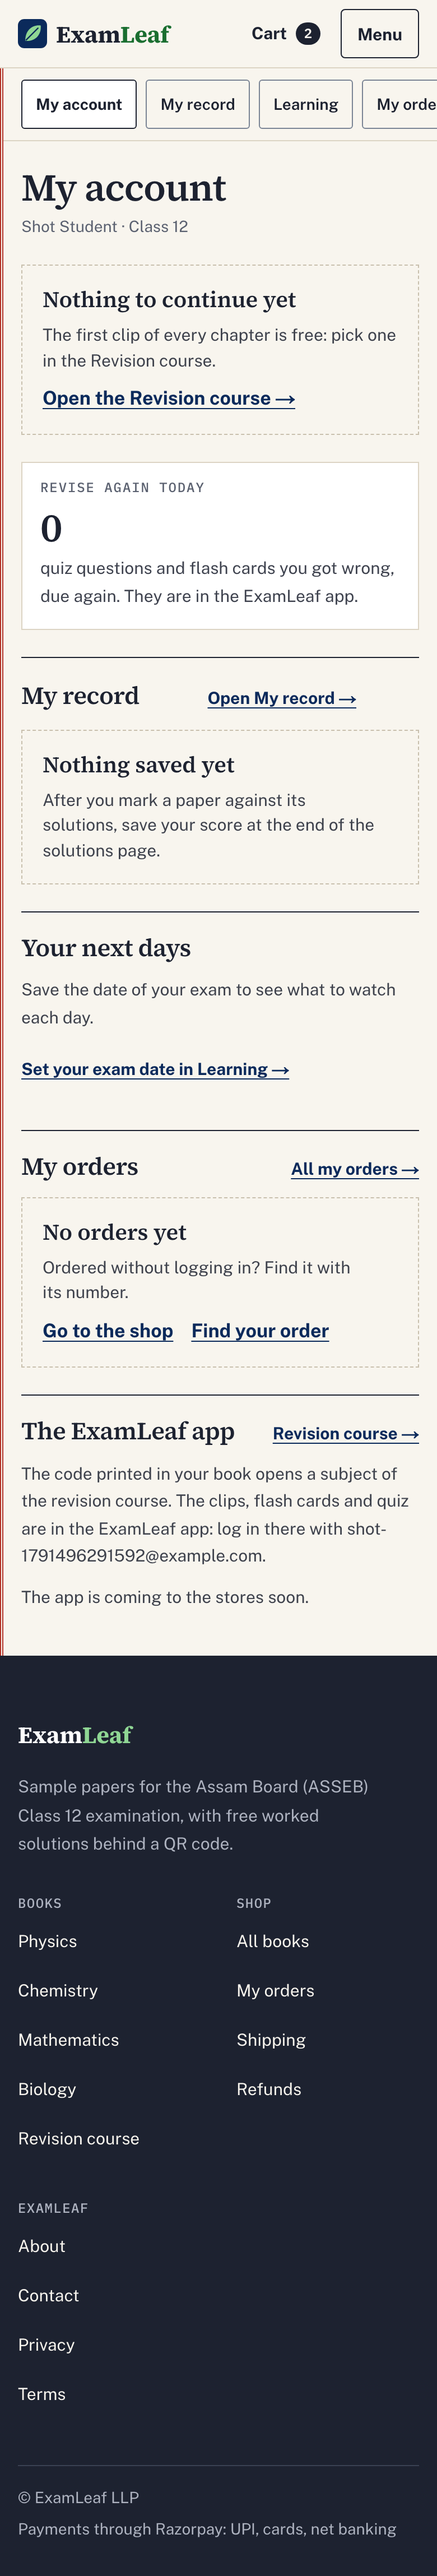
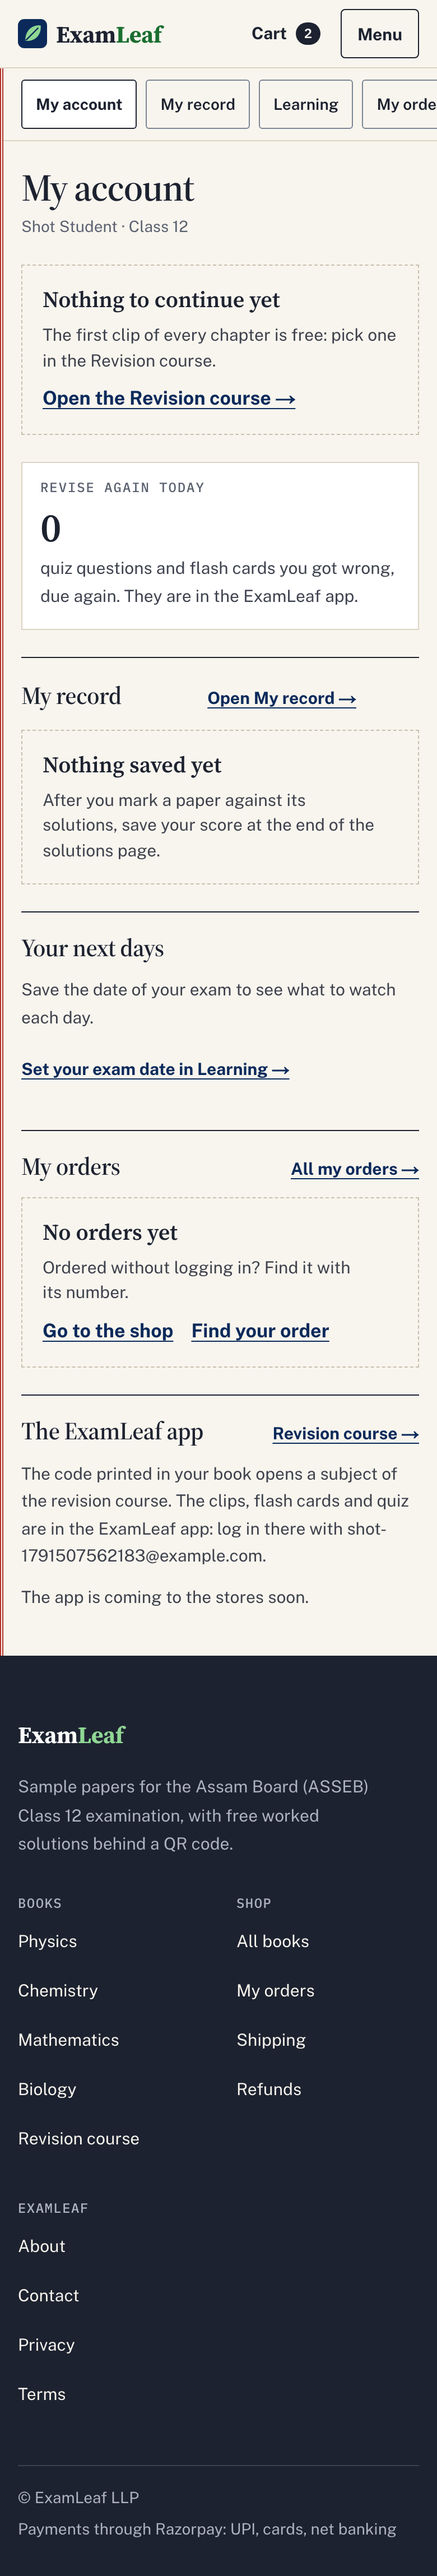
Report and the after set remeasured on the vendored fonts: home 98 with LCP 2.4 s, the open paper 97 with 2.5 s, shop 91, account 93; the suite 41 passed

diff --git a/docs/design/answer-script-implementation.md b/docs/design/answer-script-implementation.md
@@ -39,14 +39,14 @@ or entitlement changed.
 
 | Route                                                                                      | Artboards                                                 | What the page does now                                                                                                                                                                                                                                                                                                                                                                                                                                                                                           |
 | ------------------------------------------------------------------------------------------ | --------------------------------------------------------- | ---------------------------------------------------------------------------------------------------------------------------------------------------------------------------------------------------------------------------------------------------------------------------------------------------------------------------------------------------------------------------------------------------------------------------------------------------------------------------------------------------------------- |
-| `/`                                                                                        | A Home, Phone home                                        | Q.1 to Q.5 on Sheets: the promise with the red italic, the solution sheet as the picture (the circled total), the books as a ruled table (SUBJECT · PAPERS · FULL MARKS · TIME), how it works, the two offers from the shop (BEST VALUE stamp), the questions, the ink band. All figures from the API.                                                                                                                                                                                                           |
+| `/`                                                                                        | 96 / 2.8 s / 173.2 KB                                     | 98 / 100 / 100 / 100                                                                                                                                                                                                                                                                                                                                                                                                                                                                                             | 1.1 s | 2.4 s | 30 ms | 0     | 160.7 KB | 210.5 KB | 519 KB |
 | `/books/<slug>/`                                                                           | Book, Phone book                                          | The hero on a Sheet (margin: the subject code; marks: [papers] [marks] [time]), the buy buttons from the shop, the log-in prompt, one Sheet per tier with the papers as cells and the open sample marked in red ink.                                                                                                                                                                                                                                                                                             |
 | `/s/<code>/`                                                                               | A Solutions, Solutions logged out, Phone solutions        | The masthead (mono eyebrow, serif title, ruled facts, the stamp), the paper on a Sheet with question numbers in the margin and allotted marks in the marks column, solutions on the red margin line with ticked marking steps and a circled total, a rail from 1100 px (On this paper, Paper n of m, Next), a sticky chip row below it, the record card at the end. The wall: the two-panel card with `next` kept on both links and the open sample offered. Print: one page per question group, no site chrome. |
 | `/c/<token>/`                                                                              | Parent link, Expired links                                | The facts as a ruled list beside the answer card; the expired state names the student and links Contact (G5); 429 says when to try again.                                                                                                                                                                                                                                                                                                                                                                        |
 | `/about/`, `/privacy/`, `/terms/`, `/refunds/`, `/shipping/`                               | About, Legal                                              | `§` in the margin, the CMS HTML in the serif prose, "On this page" from the page's h2s (a rail from 1100 px, a disclosure below); `/shipping/` adds the rates from `GET shipping/` in a table that scrolls in its own box.                                                                                                                                                                                                                                                                                       |
 | `/contact/`                                                                                | Contact                                                   | The contacts from config, the form card only when a support address is set, Turnstile only with a key, 429 and 503 in words.                                                                                                                                                                                                                                                                                                                                                                                     |
 | 404, error, offline                                                                        | 404, Unavailable and offline                              | "This page isn't in the book" with the subjects as rows and the Find-your-order hint for `/orders/t/` links (G19); the unavailable page stays a real 500; offline stays self-contained.                                                                                                                                                                                                                                                                                                                          |
-| `/shop/` (+ category, collection)                                                          | Shop, Phone shop, Shop closed                             | `₹` in the margin, subject tabs and kind chips as server-answered links (G13), the no-cover card in the subject colour, OUT OF STOCK on the cover, honest no-match and shop-closed states.                                                                                                                                                                                                                                                                                                                       |
+| `/shop/`                                                                                   | 95 / 2.8 s / 179.9 KB                                     | 91 / 100 / 100 / 100                                                                                                                                                                                                                                                                                                                                                                                                                                                                                             | 1.5 s | 3.5 s | 10 ms | 0.005 | 160.7 KB | 153.9 KB | 572 KB |
 | `/shop/<slug>/`                                                                            | Product, Phone product                                    | Options as radio cards with the BEST VALUE stamp, the joined copies stepper, Add to cart · ₹price and Buy now (sent once), the three facts (stock, delivery, cancel), What's inside, Try before you buy, details, reviews.                                                                                                                                                                                                                                                                                       |
 | `/shop/school-orders/`                                                                     | School orders                                             | Two columns; the quote form with a copies grid by subject and kind.                                                                                                                                                                                                                                                                                                                                                                                                                                              |
 | `/cart/`                                                                                   | Cart, Cart coupon, Cancel dialog                          | Ruled lines, the paper-2 summary, the coupon applied and removed through `cart/coupon/` with the API's discount and its refusal on the field, Remove in the paper dialog, the empty state.                                                                                                                                                                                                                                                                                                                       |
@@ -135,20 +135,21 @@ desktop preset once for Home. JavaScript and fonts are the transfer (gzip) sizes
 |---|---|---|---|---|---|---|---|---|---|---|
 | `/` | 96 / 2.8 s / 173.2 KB | 91 / 100 / 100 / 100 | 1.5 s | 3.4 s | 20 ms | 0 | 160.7 KB | 208.4 KB | 518 KB |
 | `/shop/` | 95 / 2.8 s / 179.9 KB | 85 / 100 / 100 / 100 | 1.8 s | 4.2 s | 20 ms | 0 | 160.7 KB | 198.1 KB | 617 KB |
-| `/s/PHY-E01/` (open sample; measured at ac79966, the page's files are unchanged since) | 93 / 3.1 s / 177.8 KB | 87 / 100 / 100 / 100 | 1.8 s | 3.9 s | 30 ms | 0.002 | 171.7 KB | 148.5 KB | 443 KB |
-| `/account/` (signed in) | 82–84 with the CLS defect / 2.7 s / 204.5 KB | 93 / 100 / 100 / 66 (noindex, on purpose) | 1.1 s | 3.3 s | 20 ms | 0 | 182.7 KB | 138.1 KB | 374 KB |
-| `/` desktop | 100 / 0.6 s | 100 / 100 / 100 / 100 | | 0.7 s | 0 ms | 0 | | | |
+| `/s/PHY-E01/` (open sample) | 93 / 3.1 s / 177.8 KB | 97 / 100 / 100 / 100 | 1.6 s | 2.5 s | 40 ms | 0.006 | 171.7 KB | 210.5 KB | 504 KB |
+| `/account/` (signed in) | 82–84 with the CLS defect / 2.7 s / 204.5 KB | 93 / 100 / 100 / 66 (noindex, on purpose) | 1.6 s | 3.2 s | 20 ms | 0 | 182.7 KB | 153.9 KB | 391 KB |
+| `/` desktop | 100 / 0.6 s | 99 / 100 / 100 / 100 | | 0.9 s | 0 ms | 0.004 | | | |
 
 Against the budgets of `audit-nextjs-lighthouse.md`:
 
-- **LCP ≤ 2.5 s: not met**, on the same pages that missed it before the redesign (the baseline itself was 2.8 to
-  3.1 s); the branch is 0.4 to 1.4 s slower on mobile. The largest paint is text on `/`, `/s/<code>/` and
-  `/account/` and the first cover on `/shop/`; what moved it is the fonts (section 7: the design's three families
-  weigh 138 to 208 KB a page against 45.6 KB before) and, on `/shop/`, the covers now painting before the heading. Two
-  fixes landed on the way (the catalogue's first two covers fetched early, the home hero's cover served as AVIF rather
-  than the 176 KB PNG, and not fetched on phones). What would bring it back: fewer weights (the italic 400 and 700 and
-  the mono 600 are rarely used), preloading only the two faces above the fold, and serving the covers from Caddy with
-  a long cache, as production does.
+- **LCP ≤ 2.5 s: met on `/` (2.4 s) and the open paper (2.5 s) in the better of two runs, not on `/shop/` (3.5 s)
+  and `/account/` (3.2 s).** The baseline missed it on four of the five pages (2.8 to 3.1 s). Two runs of a page
+  differ by up to 1.6 s on this machine (the open paper: 2.5 and 4.1 s), so the figures are indicative: the lab
+  is noisy and the framework's JavaScript is the floor. What moved the numbers down on the way: the home hero's
+  cover served as AVIF rather than the 176 KB PNG and not fetched on phones, the catalogue's first two covers fetched
+  early, and the vendored fonts, which preload 87 KB (the sans and the display cut) instead of 129 KB and drop the
+  latin-ext files the rupee sign used to pull in. The largest paint is text on `/`, `/s/<code>/` and `/account/` and
+  the first cover on `/shop/`; serving the covers from Caddy with a long cache, as production does, is the next
+  lever there.
 - **CLS ≤ 0.1: met** everywhere (0 to 0.002; the `/account/` defect of the audit is gone).
 - **JavaScript no heavier than before: met**; every page is lighter (−12.5 KB on `/`, −19.2 KB on `/shop/`, −6.1 KB on
   the open paper, −21.8 KB on `/account/`).
@@ -218,7 +219,7 @@ artboards, the states exercised against the real API where the seed allows it):
 
 - Lighthouse's LCP budget (2.5 s on `/`, `/shop/`, a product, `/s/<code>/`): the baseline already missed it on four of
   the five pages (2.8 to 3.1 s, `audit-nextjs-lighthouse.md`); the numbers in section 3 say where the branch stands.
-  The framework's JavaScript is the floor; the design added fonts (section 7).
+  The framework's JavaScript is the floor; the design added fonts (section 7: 154 to 211 KB a page, preloading 87 KB).
 - A teacher's view of students (G14), telling a student that the parent confirmed (G17), claiming guest orders
   after registering (G16), a CSV of the record, a "This month" filter, address labels, a school field, a clip poster
   before play: the API has no endpoint or field for them (product and backend decisions).
